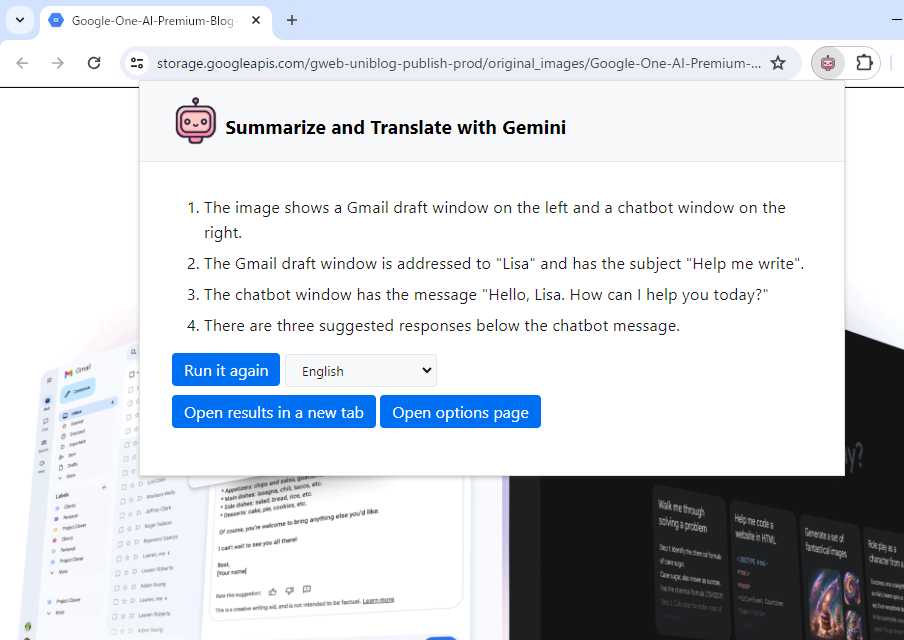
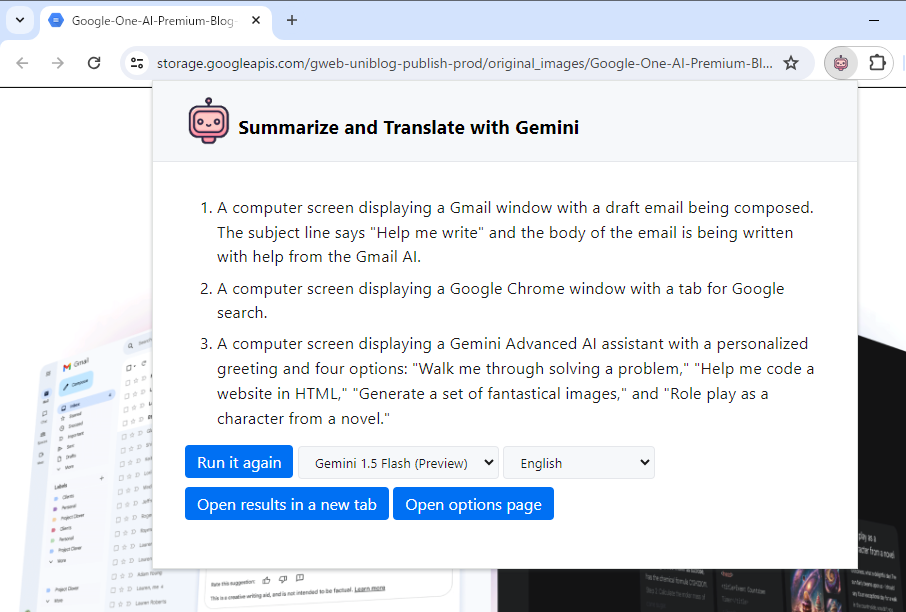
Update README

diff --git a/README.md b/README.md
@@ -13,7 +13,10 @@ The following are instructions for manual installation, for development purposes
 4. Open 'Options' page and register the Gemini API Key, then select the language.
 
 You can obtain a Gemini API Key from [Google AI for Developers](https://ai.google.dev/).
-This extension currently uses Gemini 1.0 Pro and Gemini Pro Vision.
+This extension currently uses following models:
+
+- Gemini 1.5 Flash (Preview) for Text and Images
+- Gemini 1.0 Pro for Text and Gemini Pro Vision for Images
 
 ## Usage
 
